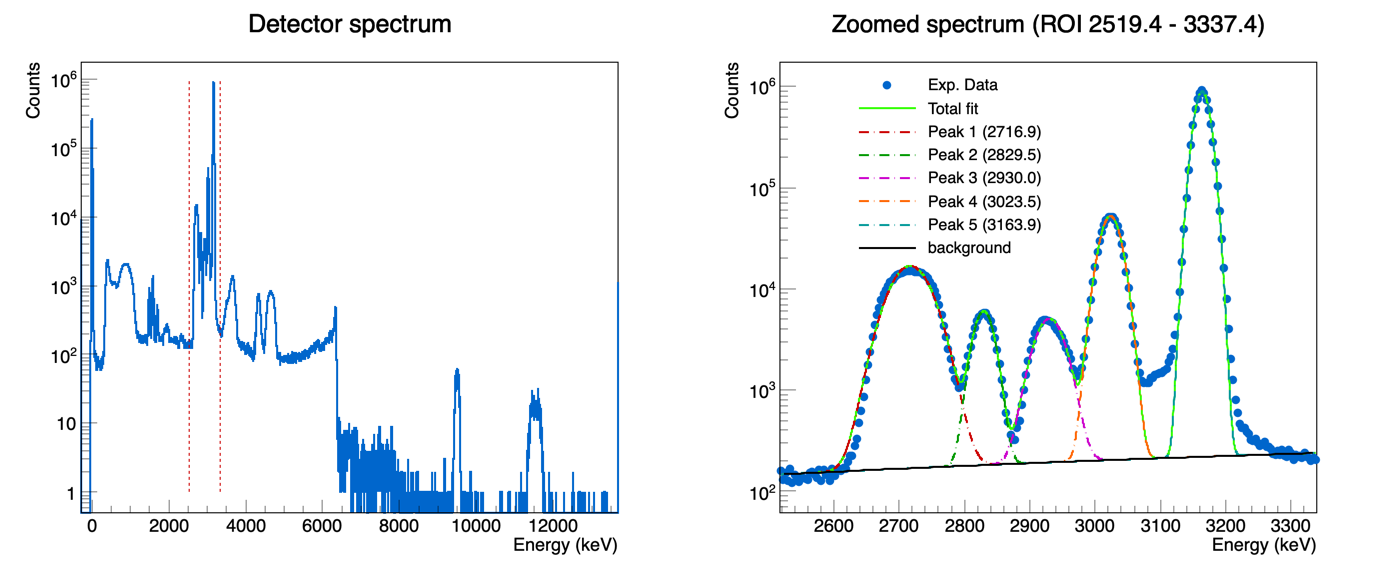
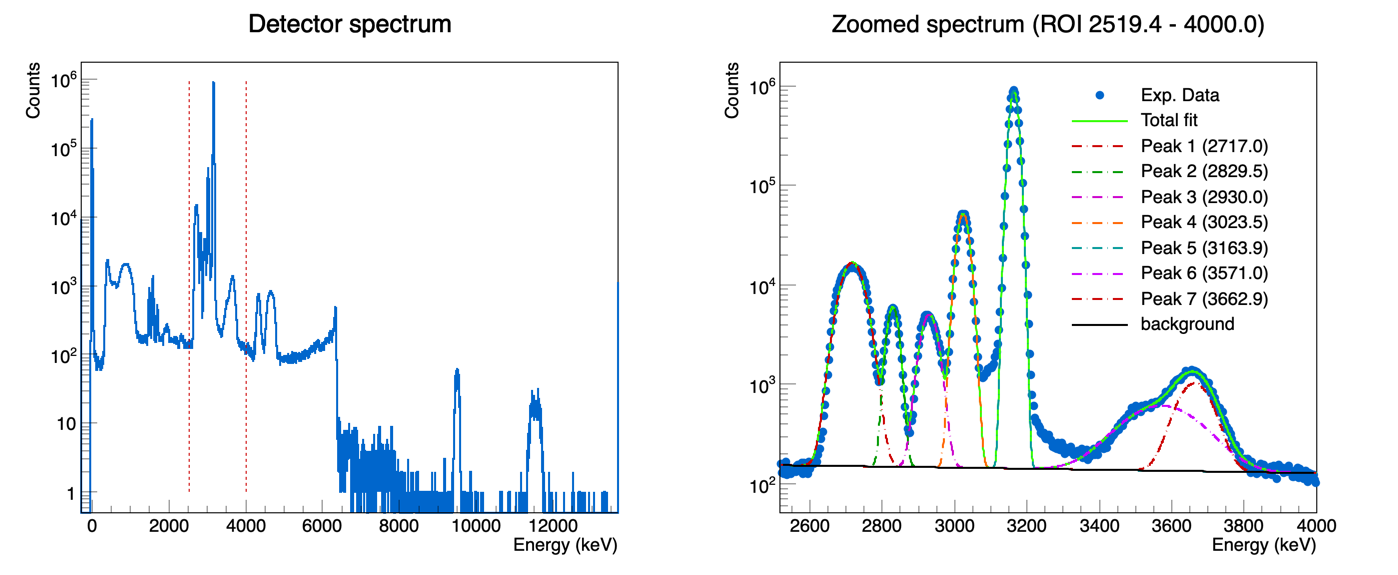
Imcrove demonstration

diff --git a/AnalyzeDetectorSpectrum.C b/AnalyzeDetectorSpectrum.C
@@ -91,15 +91,15 @@ void AnalyzeDetectorSpectrum(bool displayOnly = false)
     std::vector<FixedParam> FIXED_PARAMS; // for fixed parameters, if any.
     // Region of interest (ROI) to zoom in.
     double ROI_MIN = 2519.43;  
-    double ROI_MAX = 3337.43; 
+    double ROI_MAX = 4000.00; 
     // --- Peak-fitting settings for the ROI (channel units) ---
-    const int    N_PEAKS     = 5;
+    const int    N_PEAKS     = 7;
     const bool   USE_EXP_BKG = false; //Dùng Bkg exp thì bật true
-    std::vector<double> PEAK_GUESS  = {2720.52, 2830, 2928.43, 3023.86, 3163.60};
-    std::vector<double> SIGMA_GUESS = {40.90, 17.04, 20.45, 17.04, 11.93};
+    std::vector<double> PEAK_GUESS  = {2720.52, 2830, 2928.43, 3023.86, 3163.60,3541.00, 3662}; // peak positions (channel or energy units)
+    std::vector<double> SIGMA_GUESS = {40.90, 17.04, 20.45, 17.04, 11.93,40,40};
     // Peak-free side windows used to estimate the background
     const double BKG_LOW_MIN  = 2519.43, BKG_LOW_MAX  = 2638.72;   // just before peak 1
-    const double BKG_HIGH_MIN = 3252.22, BKG_HIGH_MAX = 3337.43; // just after last peak 
+    const double BKG_HIGH_MIN = 3850.22, BKG_HIGH_MAX = 4000.00; // just after last peak 
     // Nếu muốn cố định các thông số đỉnh, hãy điền vector FixedParam
     // (giá trị "value" phải cùng đơn vị với fitMode đang chọn!):
     FIXED_PARAMS = {
